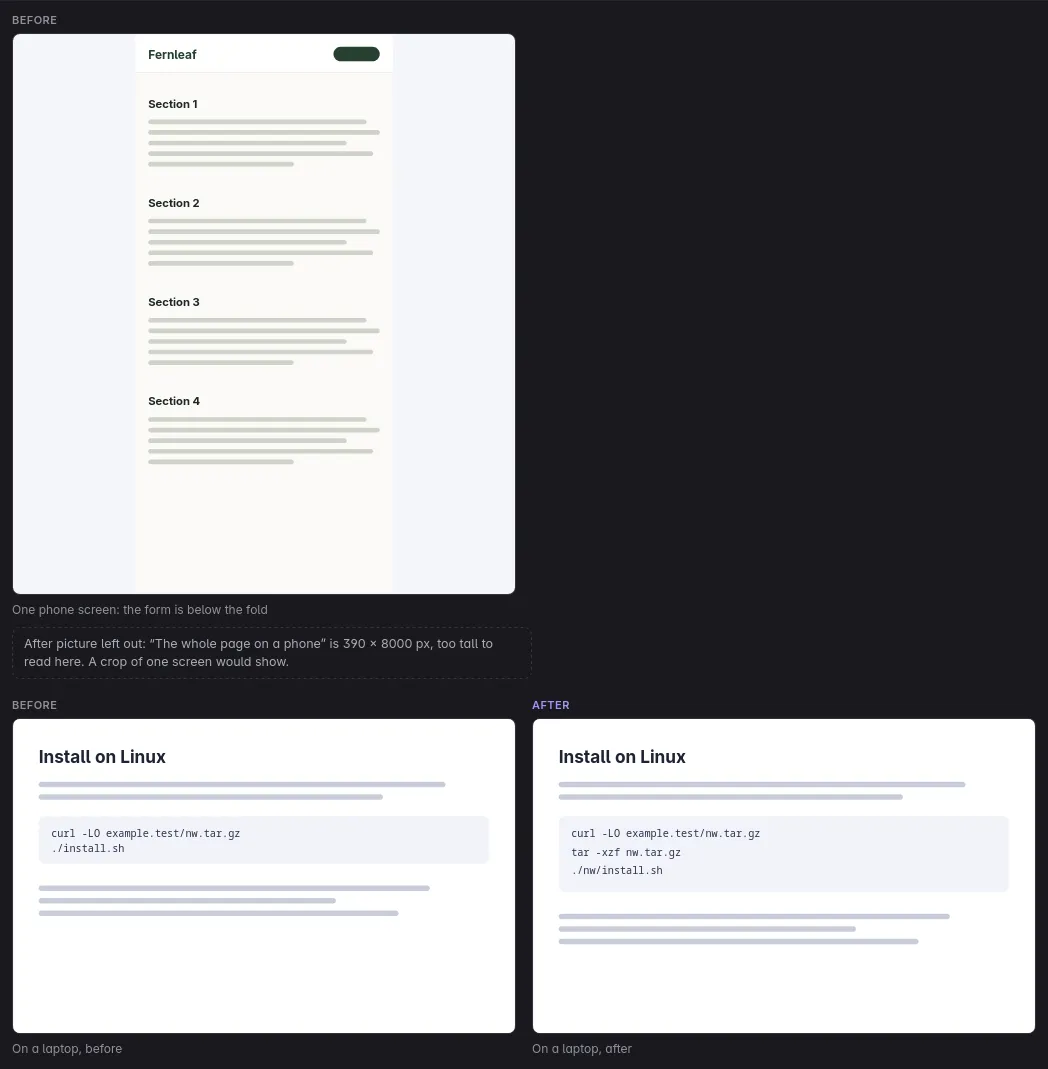
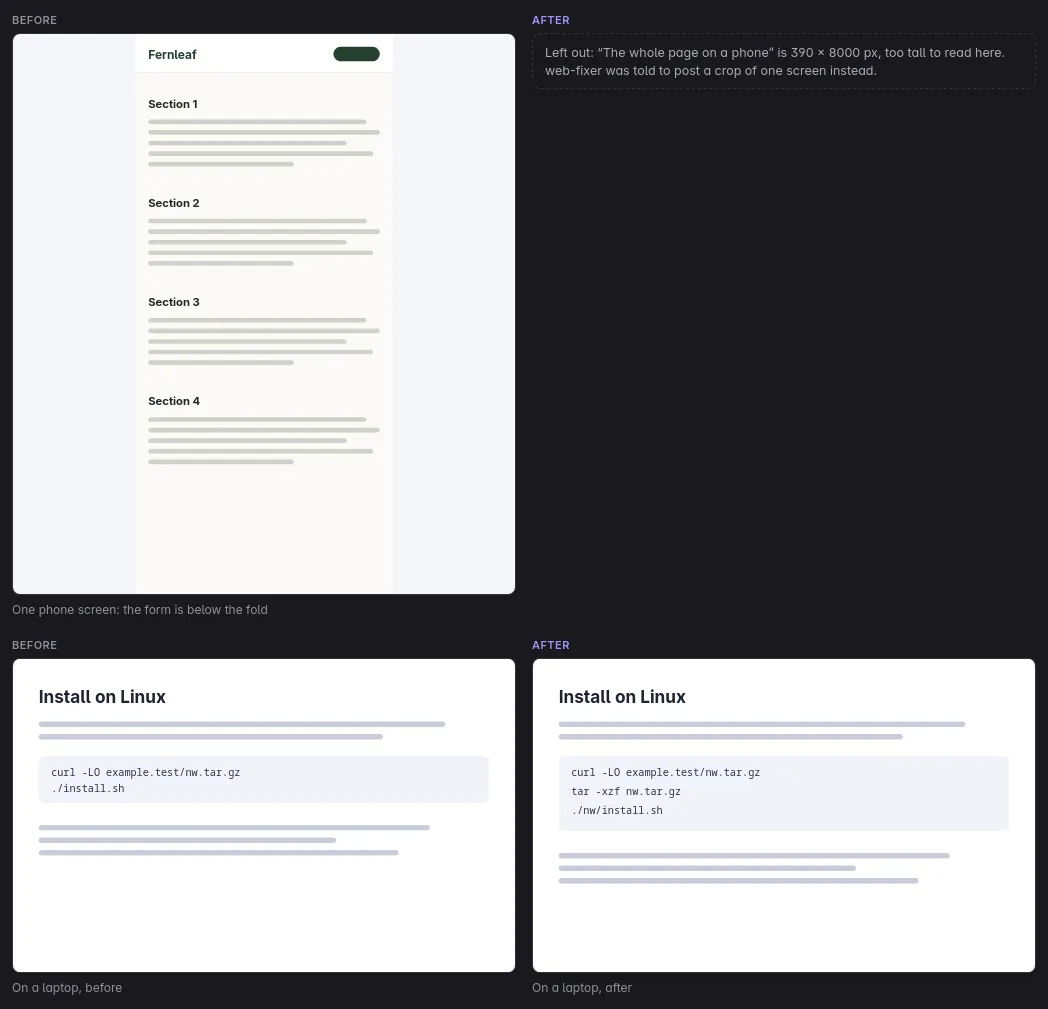
Design fix round: the left-out line takes the picture's place in its pair; an oversize full-page picture is told to crop
The design review found the line under a pair easy to miss (an empty half beside the kept picture),
and that a full-page screenshot over 8 MiB was refused without saying what to post instead.

- web/src/components/PrsView.tsx: a left-out picture keeps its Before/After label and column, with
  the line in a dashed box where the picture would be; pairs lay out as before.
- web/src/prs_model.ts leftOutText: names the poster; on a card post_pr marked, "<poster> was told to
  post a crop of one screen instead"; on an older card, "Not shown: ... Ask <poster> for a crop of
  one screen." Lightbox uses the same words.
- src/prs.rs check: a picture refused as larger than 8 MiB gets "; a full-page screenshot? post a
  crop of one screen". Test in src/prs_tests.rs.
- docs/UI.md, docs/MCP.md updated; web/dev/webkit_shots/prs_too_tall.json waits for exactly 3
  pictures and 1 line; screenshots redone (dark new card, light older card).

Not fixed (noted): an SVG whose width is an XML character reference (&#51;90) gives no size and is
shown; on an older card, the large view stepping onto a picture whose size reply is still pending
shows the line there once it arrives (arrows step on).

diff --git a/web/src/components/PrsView.tsx b/web/src/components/PrsView.tsx
@@ -384,16 +384,29 @@ function Pictures({ p, stale, onZoom }: { p: Pr; stale: boolean; onZoom: (index:
   const all = pairs(p);
   if (!all.length) return null;
   const out = leftOut(p);
+  // A left-out picture keeps its place in the pair: its label, then a line saying why, so the
+  // picture on the other side shows alone and the other pairs stay as posted.
   const fig = (i: number | null) => {
-    if (i === null || out(i)) return null;
+    if (i === null) return null;
     const x = list[i];
     const got = prPictures.value.get(pictureKey(p, i));
+    const label = (
+      <div class={cx("pm-side", x.side)}>
+        {x.side === "before" ? "Before" : "After"}
+        {stale && <span class="pm-tag warn pm-old">older version</span>}
+      </div>
+    );
+    if (out(i)) {
+      return (
+        <figure class="pm-fig">
+          {label}
+          <p class="pm-left-out">{leftOutText(x.caption, x.too_tall ?? got?.tooTall, p.poster.label, !!x.too_tall)}</p>
+        </figure>
+      );
+    }
     return (
       <figure class="pm-fig">
-        <div class={cx("pm-side", x.side)}>
-          {x.side === "before" ? "Before" : "After"}
-          {stale && <span class="pm-tag warn pm-old">older version</span>}
-        </div>
+        {label}
         {got?.src
           ? (
             <button type="button" class="pm-shot" aria-label={`Show full size: ${x.side}, ${x.caption}`} onClick={() => onZoom(i)}>
@@ -405,25 +418,13 @@ function Pictures({ p, stale, onZoom }: { p: Pr; stale: boolean; onZoom: (index:
       </figure>
     );
   };
-  // A left-out picture's place is a line under its pair: the picture on the other side shows
-  // alone, and the other pairs stay as posted.
-  const note = (i: number | null) => {
-    if (i === null || !out(i)) return null;
-    const x = list[i];
-    const size = x.too_tall ?? prPictures.value.get(pictureKey(p, i))?.tooTall;
-    return <p class="pm-left-out">{leftOutText(x.side, x.caption, size)}</p>;
-  };
   return (
     <div class="pm-pairs">
-      {all.map((pair, k) => {
-        const shown = [pair.before, pair.after].filter((i) => i !== null && !out(i)).length;
-        return (
-          <div key={k} class="pm-pair-group">
-            {shown > 0 && <div class={cx("pm-pair", shown === 1 && "solo")}>{fig(pair.before)}{fig(pair.after)}</div>}
-            {note(pair.before)}{note(pair.after)}
-          </div>
-        );
-      })}
+      {all.map((pair, k) => (
+        <div key={k} class={cx("pm-pair", (pair.before === null || pair.after === null) && "solo")}>
+          {fig(pair.before)}{fig(pair.after)}
+        </div>
+      ))}
     </div>
   );
 }
@@ -782,7 +783,9 @@ function Lightbox({ p, index, onStep, onClose }: { p: Pr; index: number; onStep:
           ? <img src={got.src} alt={x.caption} onClick={stop} />
           : (
             <div class="qv-shot-missing" onClick={stop}>
-              {got?.tooTall || x.too_tall ? leftOutText(x.side, x.caption, got?.tooTall ?? x.too_tall) : got?.error ?? "Loading the picture…"}
+              {got?.tooTall || x.too_tall
+                ? leftOutText(x.caption, x.too_tall ?? got?.tooTall, p.poster.label, !!x.too_tall)
+                : got?.error ?? "Loading the picture…"}
             </div>
           )}
       </div>

diff --git a/web/src/prs_model.ts b/web/src/prs_model.ts
@@ -250,11 +250,13 @@ export function pillMark(p: Pr): { glyph: string; cls: "" | "none" | "run" | "wa
 export type LeftOut = (i: number) => boolean;
 export const leftOutOf = (p: Pr, loaded?: LeftOut): LeftOut => (i) => !!p.pictures?.[i]?.too_tall || !!loaded?.(i);
 
-/** The line shown in a left-out picture's place. */
-export function leftOutText(side: "before" | "after", caption: string, size: PrSize | undefined): string {
+/** The words in a left-out picture's place, under its Before or After label. `told`: post_pr left
+ * it out and told the poster; otherwise the card was stored before that rule and nobody was told. */
+export function leftOutText(caption: string, size: PrSize | undefined, poster: string, told: boolean): string {
   const px = size ? `${size.width} × ${size.height} px, ` : "";
-  return `${side === "before" ? "Before" : "After"} picture left out: “${caption}” is ${px}too tall to read here. ` +
-    "A crop of one screen would show.";
+  return told
+    ? `Left out: “${caption}” is ${px}too tall to read here. ${poster} was told to post a crop of one screen instead.`
+    : `Not shown: “${caption}” is ${px}too tall to read here. Ask ${poster} for a crop of one screen.`;
 }
 
 /** Before and after pictures in pairs, in posting order: the nth before beside the nth after (an

diff --git a/web/src/prs_model_test.ts b/web/src/prs_model_test.ts
@@ -146,8 +146,10 @@ Deno.test("a picture left out for being too tall keeps its place: its pair's oth
   equal(stepPicture(old, 1, 1, both), 0);
   equal(stepPicture(old, 0, -1, both), 1);
   equal(stepPicture(old, 0, 1, () => true), 0);
-  equal(leftOutText("after", "The whole page", { width: 390, height: 8000 }),
-    "After picture left out: “The whole page” is 390 × 8000 px, too tall to read here. A crop of one screen would show.");
+  equal(leftOutText("The whole page", { width: 390, height: 8000 }, "builder-2", true),
+    "Left out: “The whole page” is 390 × 8000 px, too tall to read here. builder-2 was told to post a crop of one screen instead.");
+  equal(leftOutText("The whole page", { width: 390, height: 8000 }, "builder-2", false),
+    "Not shown: “The whole page” is 390 × 8000 px, too tall to read here. Ask builder-2 for a crop of one screen.");
 });
 
 Deno.test("an unknown result, a restart and GitHub's words are told as they are", () => {

diff --git a/web/src/styles.css b/web/src/styles.css
@@ -6634,9 +6634,8 @@ fieldset.sch-then > legend {
 .pm-row .qv-top .pm-tag { margin-left: auto; flex: none; align-self: center; }
 
 .pm-pairs { display: grid; gap: 18px; margin: 2px 0 18px; }
-.pm-pair-group { display: grid; gap: 8px; }
-/* In a left-out picture's place (too tall to read): one line, never the picture. */
-.pm-left-out { margin: 0; max-width: 66ch; padding: 7px 11px; border: 1px dashed var(--border-strong); border-radius: 8px;
+/* In a left-out picture's place (too tall to read): a few words, never the picture. */
+.pm-left-out { margin: 0; padding: 9px 12px; border: 1px dashed var(--border-strong); border-radius: 8px;
   font-size: 12.5px; line-height: 1.45; color: var(--text-muted); }
 .pm-pair { display: grid; grid-template-columns: minmax(0, 1fr) minmax(0, 1fr); gap: 16px; align-items: start; }
 .pm-pair.solo { grid-template-columns: minmax(0, calc(50% - 8px)); }

diff --git a/src/prs_tests.rs b/src/prs_tests.rs
@@ -1044,6 +1044,14 @@ fn a_full_page_phone_picture_is_left_out_and_its_poster_told() {
     std::fs::write(hub.store().pr_dir(1).join("1/0.png"), png_of(390, 8000)).unwrap();
     let old = picture(&hub, 1, 1, 0).unwrap();
     assert!(old.get("src").is_none() && old["too_tall"] == json!({"width": 390, "height": 8000}), "{old}");
+    // A full-page screenshot over 8 MiB is refused, and the problem says what to post instead.
+    let mut big = png_of(1170, 24000);
+    big.resize(9 << 20, 0);
+    let huge = dir.join("huge.png");
+    std::fs::write(&huge, big).unwrap();
+    let e = checked(with(|v| v["pictures"] = json!([{"path": huge.to_str().unwrap(), "caption": "Whole page", "side": "after"}])))
+        .unwrap_err();
+    assert!(e.iter().any(|x| x.contains("larger than 8 MiB") && x.contains("crop of one screen")), "{e:?}");
     let _ = std::fs::remove_dir_all(&dir);
     let _ = std::fs::remove_dir_all(hub.store().prs_root());
 }

diff --git a/src/prs.rs b/src/prs.rs
@@ -648,7 +648,11 @@ pub fn check(c: NewPr) -> Result<Checked, Vec<String>> {
                     }
                 }
             }
-            Err(e) => p.push(format!("picture {}: {e:#}", i + 1)),
+            Err(e) => {
+                // A full-page screenshot is often also over the size limit: say what to post instead.
+                let hint = if format!("{e:#}").contains("larger than") { "; a full-page screenshot? post a crop of one screen" } else { "" };
+                p.push(format!("picture {}: {e:#}{hint}", i + 1))
+            }
         }
     }
     if bytes > MAX_CARD_BYTES {

diff --git a/docs/MCP.md b/docs/MCP.md
@@ -1293,7 +1293,7 @@ merges with a click there; Muster's own code does the merge, never a model. Code
 
 | Tool | Arguments | Result |
 |---|---|---|
-| `post_pr` | `repo` (OWNER/NAME on GitHub), `number`, `head_sha` (the full 40-character id of the commit to merge, as pushed), `summary`, `who_notices`, `tests`, `undo`, `after_merge`, `details?`, `pictures?: [{path, caption, side: "before" \| "after"}]` | `{card: "P<n>", repo, number, head_sha, status: "waiting", replaced, result_goes_to, note, left_out?}`, at once: posting never calls GitHub. Refused, with every problem listed: a repo that isn't OWNER/NAME, a number outside 1 to 2^53, a `head_sha` that isn't 40 hex digits, no `summary` (20 to 600 characters), `who_notices` (10 to 300), `tests` (10 to 1000), `undo` (10 to 500) or `after_merge` (5 to 500), unknown fields. Pictures: at most 6, absolute paths (no control characters, not a symlink) of png, jpg, gif, webp or svg files, an image by their content, 8 MiB each and 24 MiB in all (counting the pictures kept, not those left out), each with a one-line caption and its side; Muster copies them into its data directory (`prs/<card>/<post>/`) when the card is posted, so a later rebuild in the agent's folder can't change what the human sees. A picture more than 3 times as tall as it is wide (a full-page phone screenshot, 390 × 8000: fitted to the window it is a sliver too narrow to read) is left out, not refused: the card is posted with the rest, the picture keeps its place in the pairs (marked `too_tall` with its size; Muster keeps no copy, and the window shows a line saying so instead), and `left_out` lists each one (number, path, size) with what to post instead: one screen (a phone: about 390 × 844), or a few such crops. Its size comes from the file's header (PNG, JPEG with its EXIF rotation, GIF, WebP, or the `<svg>` tag's width and height, else its viewBox); a picture whose header gives no size is kept. At most 20 open cards per poster and 100 in all. |
+| `post_pr` | `repo` (OWNER/NAME on GitHub), `number`, `head_sha` (the full 40-character id of the commit to merge, as pushed), `summary`, `who_notices`, `tests`, `undo`, `after_merge`, `details?`, `pictures?: [{path, caption, side: "before" \| "after"}]` | `{card: "P<n>", repo, number, head_sha, status: "waiting", replaced, result_goes_to, note, left_out?}`, at once: posting never calls GitHub. Refused, with every problem listed: a repo that isn't OWNER/NAME, a number outside 1 to 2^53, a `head_sha` that isn't 40 hex digits, no `summary` (20 to 600 characters), `who_notices` (10 to 300), `tests` (10 to 1000), `undo` (10 to 500) or `after_merge` (5 to 500), unknown fields. Pictures: at most 6, absolute paths (no control characters, not a symlink) of png, jpg, gif, webp or svg files, an image by their content, 8 MiB each and 24 MiB in all (counting the pictures kept, not those left out), each with a one-line caption and its side; Muster copies them into its data directory (`prs/<card>/<post>/`) when the card is posted, so a later rebuild in the agent's folder can't change what the human sees. A picture more than 3 times as tall as it is wide (a full-page phone screenshot, 390 × 8000: fitted to the window it is a sliver too narrow to read) is left out, not refused: the card is posted with the rest, the picture keeps its place in the pairs (marked `too_tall` with its size; Muster keeps no copy, and the window shows a line saying so instead), and `left_out` lists each one (number, path, size) with what to post instead: one screen (a phone: about 390 × 844), or a few such crops. Its size comes from the file's header (PNG, JPEG with its EXIF rotation, GIF, WebP, or the `<svg>` tag's width and height, else its viewBox); a picture whose header gives no size is kept. A picture over 8 MiB is refused as before; its problem line adds "a full-page screenshot? post a crop of one screen". At most 20 open cards per poster and 100 in all. |
 | `withdraw_pr` | `repo`, `number`, `reason` (5 to 500 characters) | `{card, repo, number, status: "withdrawn"}`. Only its poster (a named agent across its restarts and fresh starts, else the same session), or once that poster has ended (a session) or was removed (a named agent) what started it; only while the card is open and not being merged. A withdrawn card's pictures are deleted. |
 
 Both share the post rate limit with `post_question` and the note and panel writes. Every call is

diff --git a/docs/UI.md b/docs/UI.md
@@ -473,9 +473,10 @@ merges, never a model.
 - **Too tall to read**: a picture more than 3 times as tall as it is wide (a full-page phone
   screenshot) is never shown, since fitted to the window it is an unreadable sliver. `post_pr` leaves
   it out and tells the poster; a card stored before that rule gets only its size from Muster. Its
-  place shows one line instead ("After picture left out: “<caption>” is 390 × 8000 px, too tall to
-  read here. A crop of one screen would show."), the picture on the other side of its pair shows
-  alone, the other pairs stay as posted, and the large view skips it.
+  place in the pair keeps its Before or After label and shows a line instead ("Left out: “<caption>”
+  is 390 × 8000 px, too tall to read here. <poster> was told to post a crop of one screen
+  instead."; on an older card "Not shown: … Ask <poster> for a crop of one screen."), the picture on
+  the other side shows as it is, the other pairs stay as posted, and the large view skips it.
 - **Narrow** (under 760px): the pictures stay side by side, smaller; the dock stacks, Merge full
   width.
 
